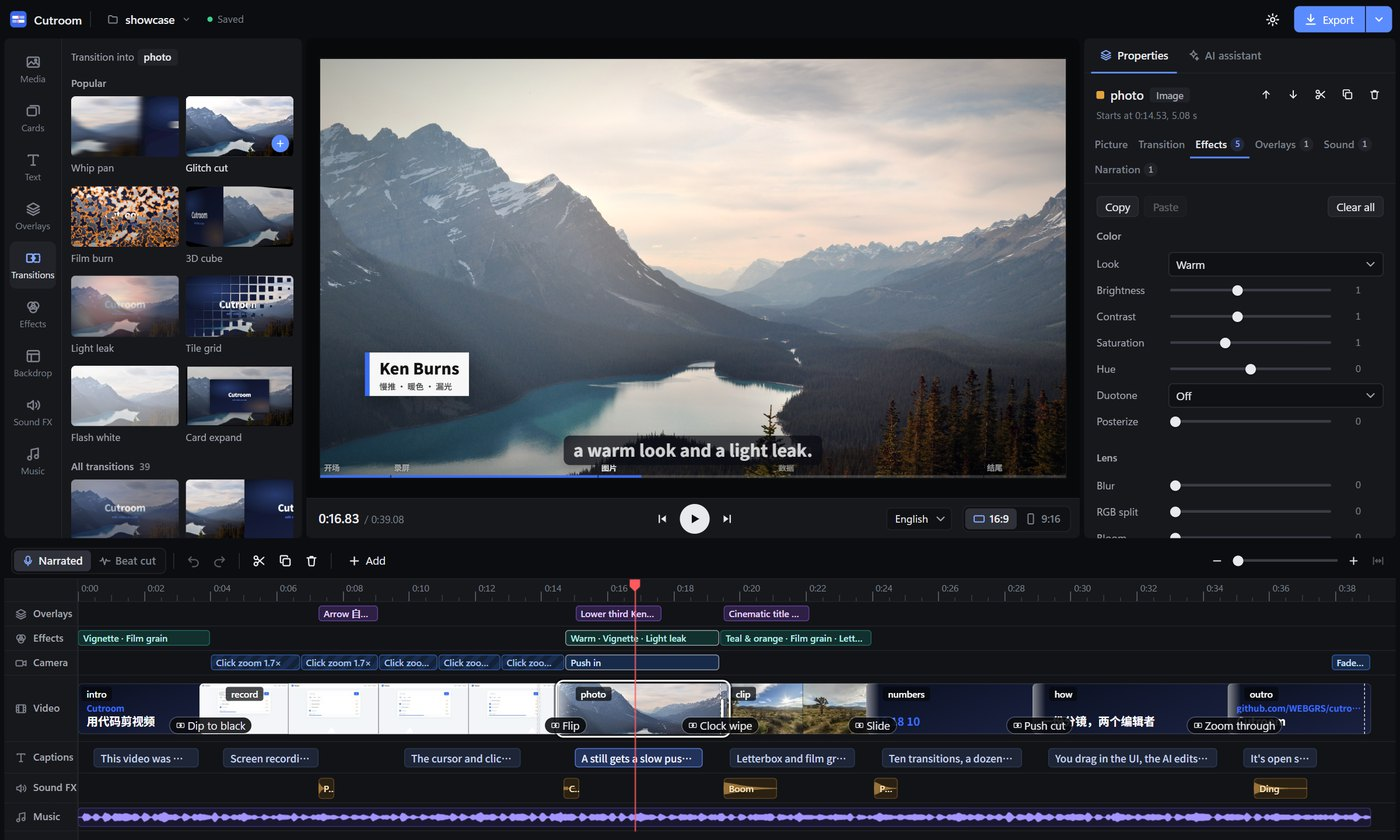
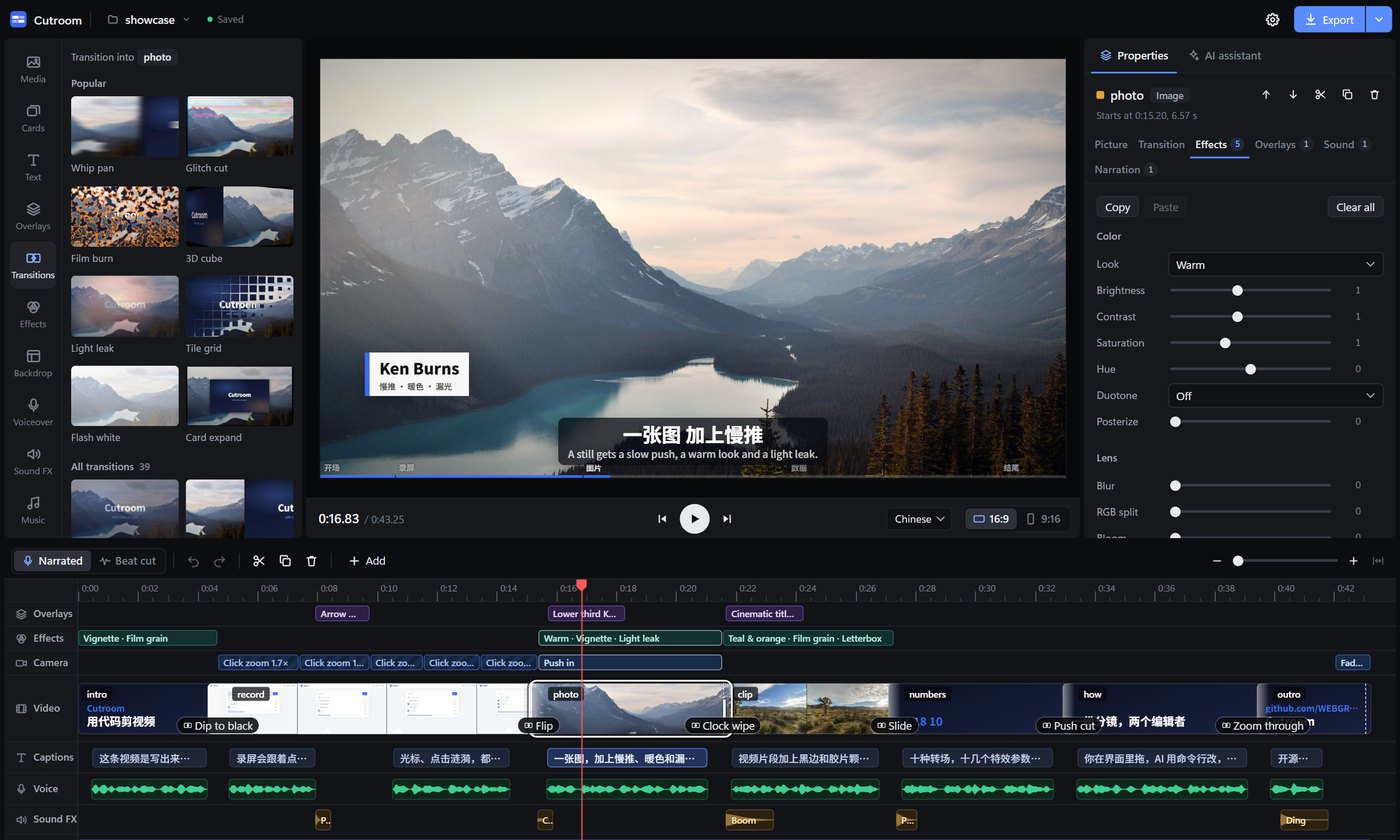
Cutroom card: AI voice-over and website recording, screenshot with the voice lane

diff --git a/index.html b/index.html
@@ -1551,7 +1551,7 @@ h2{--w:780}
           </div></div>
         </li>
         <li class="cap r" id="cutroom" data-src="assets/cutroom.jpg" data-c="3B6EF5" data-f="B9CCFF" style="--i:5">
-          <figure class="cap-shot"><img src="assets/cutroom.jpg" width="1400" height="840" alt="Cutroom: a transition library on the left, the video preview, effect settings, and a timeline with lanes for overlays, effects, camera moves, captions, sound effects and music" loading="lazy" decoding="async"></figure>
+          <figure class="cap-shot"><img src="assets/cutroom.jpg" width="1400" height="840" alt="Cutroom: a transition library on the left, the video preview, effect settings, and a timeline with lanes for overlays, effects, camera moves, captions, voice-over and sound effects" loading="lazy" decoding="async"></figure>
           <div class="pg"><div class="pg-in">
             <p class="cap-n" data-k style="--k:0">06 / 08 &middot; <span class="en">Desktop app</span><span class="zh" lang="zh-CN">桌面应用</span></p>
             <h3 aria-label="Cutroom"><span aria-hidden="true"><span class="ch" style="--c:0">C</span><span class="ch" style="--c:1">u</span><span class="ch" style="--c:2">t</span><span class="ch" style="--c:3">r</span><span class="ch" style="--c:4">o</span><span class="ch" style="--c:5">o</span><span class="ch" style="--c:6">m</span></span></h3>
@@ -1559,9 +1559,9 @@ h2{--w:780}
             <p class="links" data-k style="--k:3"><a href="https://github.com/WEBGRS/cutroom/releases/latest" target="_blank" rel="noopener"><span class="en">Download</span><span class="zh" lang="zh-CN">下载</span></a><a href="https://github.com/WEBGRS/cutroom" target="_blank" rel="noopener"><span class="en">Source</span><span class="zh" lang="zh-CN">源码</span></a></p>
             <p class="built" data-k style="--k:3"><span class="en">TypeScript, React, Remotion, Electron</span><span class="zh" lang="zh-CN">TypeScript、React、Remotion、Electron</span></p>
             <ul>
-              <li data-k style="--k:4"><span class="en">A filmstrip timeline with trim, split and undo, and lanes that show where each overlay, effect, camera move and sound sits. One storyboard gives a narrated cut and a beat-synced music cut, each in 16:9 and 9:16.</span><span class="zh" lang="zh-CN">胶片条时间线能裁切、拆分、撤销，下方的轨道标出每个叠加元素、特效、运镜和音效在哪。一份分镜同时出旁白版和卡点版，各有 16:9 和 9:16。</span></li>
-              <li data-k style="--k:5"><span class="en"><span class="count" data-to="182">182</span> effects and 58 sound effects, each previewed on hover. Many effects follow designs from HeyGen&rsquo;s HyperFrames.</span><span class="zh" lang="zh-CN"><span class="count" data-to="182">182</span> 种特效、58 种音效，鼠标悬停就能预览。很多特效参考了 HeyGen 的 HyperFrames。</span></li>
-              <li data-k style="--k:6"><span class="en">Ctrl+click a spot in the preview and tell the assistant what to change there. It runs on a Claude, ChatGPT or Google subscription, or any OpenAI-compatible model. A Windows installer, MIT-licensed.</span><span class="zh" lang="zh-CN">按住 Ctrl 点一下预览画面里的某处，直接告诉 AI 这里要怎么改。可以用 Claude、ChatGPT 或 Google 的订阅，也可以接任何 OpenAI 兼容的模型。提供 Windows 安装包，MIT 许可证开源。</span></li>
+              <li data-k style="--k:4"><span class="en">A filmstrip timeline with lanes for every overlay, effect, camera move, voice line and sound. One storyboard gives a narrated cut and a beat-synced music cut, each in 16:9 and 9:16.</span><span class="zh" lang="zh-CN">胶片条时间线下方的轨道标出每个叠加元素、特效、运镜、旁白和音效在哪。一份分镜同时出旁白版和卡点版，各有 16:9 和 9:16。</span></li>
+              <li data-k style="--k:5"><span class="en"><span class="count" data-to="182">182</span> effects, 58 sound effects, and free offline voice-over in 100 Chinese and 3 English voices.</span><span class="zh" lang="zh-CN"><span class="count" data-to="182">182</span> 种特效、58 种音效，还有免费离线的 AI 配音：100 个中文音色、3 个英文音色。</span></li>
+              <li data-k style="--k:6"><span class="en">Ctrl+click a spot in the preview and tell the assistant what to change. It also records websites and voices the narration, on a Claude, ChatGPT or Google subscription or any OpenAI-compatible model.</span><span class="zh" lang="zh-CN">按住 Ctrl 点一下预览画面里的某处，告诉 AI 这里要怎么改。它还能自己录网页、给旁白配音，可以用 Claude、ChatGPT 或 Google 的订阅，也可以接任何 OpenAI 兼容的模型。</span></li>
             </ul>
           </div></div>
           <div class="pg"><div class="pg-in">
@@ -1929,7 +1929,7 @@ h2{--w:780}
   </section>
 
   <section class="block" id="now" aria-labelledby="now-h">
-    <p class="sr"><!-- work:sr --><span class="en">Tools used in these projects: MapLibre GL, Canvas 2D, MediaRecorder, WebGL, Leaflet, Cloudflare Workers, Cloudflare Turnstile, Workers AI, DeepSeek, Chrome MV3, Playwright, TypeScript, React, Remotion, Electron, Claude Code, MCP, ffmpeg, Vite, SQLite, GitHub Actions, pdf.js, Cloudflare D1, Resend, PyTorch, open_clip, HDBSCAN, FastAPI, D3, TopoJSON, OKLCH, SVG, Stable Diffusion XL, OffscreenCanvas. Data sources: Esri World Imagery, Madison Metro GTFS, OpenStreetMap, Nominatim, Public Health Madison & Dane County, ntfy, MadGrades API, Course Search & Enroll API, Reddit via Firecrawl, World Bank, US Census, ISO 3166, USGS 3DEP.</span><span class="zh" lang="zh-CN">这些项目用到的工具：MapLibre GL、Canvas 2D、MediaRecorder、WebGL、Leaflet、Cloudflare Workers、Cloudflare Turnstile、Workers AI、DeepSeek、Chrome MV3、Playwright、TypeScript、React、Remotion、Electron、Claude Code、MCP、ffmpeg、Vite、SQLite、GitHub Actions、pdf.js、Cloudflare D1、Resend、PyTorch、open_clip、HDBSCAN、FastAPI、D3、TopoJSON、OKLCH、SVG、Stable Diffusion XL、OffscreenCanvas。数据来源：Esri World Imagery、Madison Metro GTFS、OpenStreetMap、Nominatim、Public Health Madison & Dane County、ntfy、MadGrades API、Course Search & Enroll API、Reddit via Firecrawl、World Bank、US Census、ISO 3166、USGS 3DEP。</span><!-- /work:sr --></p>
+    <p class="sr"><!-- work:sr --><span class="en">Tools used in these projects: MapLibre GL, Canvas 2D, MediaRecorder, WebGL, Leaflet, Cloudflare Workers, Cloudflare Turnstile, Workers AI, DeepSeek, Chrome MV3, Playwright, TypeScript, React, Remotion, Electron, Claude Code, MCP, sherpa-onnx, ffmpeg, Vite, SQLite, GitHub Actions, pdf.js, Cloudflare D1, Resend, PyTorch, open_clip, HDBSCAN, FastAPI, D3, TopoJSON, OKLCH, SVG, Stable Diffusion XL, OffscreenCanvas. Data sources: Esri World Imagery, Madison Metro GTFS, OpenStreetMap, Nominatim, Public Health Madison & Dane County, ntfy, MadGrades API, Course Search & Enroll API, Reddit via Firecrawl, World Bank, US Census, ISO 3166, USGS 3DEP.</span><span class="zh" lang="zh-CN">这些项目用到的工具：MapLibre GL、Canvas 2D、MediaRecorder、WebGL、Leaflet、Cloudflare Workers、Cloudflare Turnstile、Workers AI、DeepSeek、Chrome MV3、Playwright、TypeScript、React、Remotion、Electron、Claude Code、MCP、sherpa-onnx、ffmpeg、Vite、SQLite、GitHub Actions、pdf.js、Cloudflare D1、Resend、PyTorch、open_clip、HDBSCAN、FastAPI、D3、TopoJSON、OKLCH、SVG、Stable Diffusion XL、OffscreenCanvas。数据来源：Esri World Imagery、Madison Metro GTFS、OpenStreetMap、Nominatim、Public Health Madison & Dane County、ntfy、MadGrades API、Course Search & Enroll API、Reddit via Firecrawl、World Bank、US Census、ISO 3166、USGS 3DEP。</span><!-- /work:sr --></p>
     <!-- work:stack -->
     <script type="application/json" id="stack-data">
 {
@@ -1940,7 +1940,7 @@ h2{--w:780}
   "Madison Eats": ["Leaflet", "Cloudflare Workers", "Cloudflare Turnstile", "OpenStreetMap", "Esri World Imagery", "Public Health Madison & Dane County"],
   "geo-spoof": ["Leaflet", "Chrome MV3", "OpenStreetMap", "Nominatim"],
   "tophat-watch": ["Chrome MV3", "ntfy", "Playwright"],
-  "Cutroom": ["TypeScript", "React", "Remotion", "Electron", "Claude Code", "MCP", "Playwright", "ffmpeg"],
+  "Cutroom": ["TypeScript", "React", "Remotion", "Electron", "Claude Code", "MCP", "sherpa-onnx", "Playwright", "ffmpeg"],
   "Dafeiyu": ["TypeScript", "React", "Vite", "Electron"],
   "uw-course-lookup": ["SQLite", "Cloudflare Workers", "Workers AI", "GitHub Actions", "pdf.js", "MadGrades API", "Course Search & Enroll API", "Reddit via Firecrawl"],
   "UW Digest": ["Claude Code", "Cloudflare Workers", "Cloudflare D1", "Resend"],
